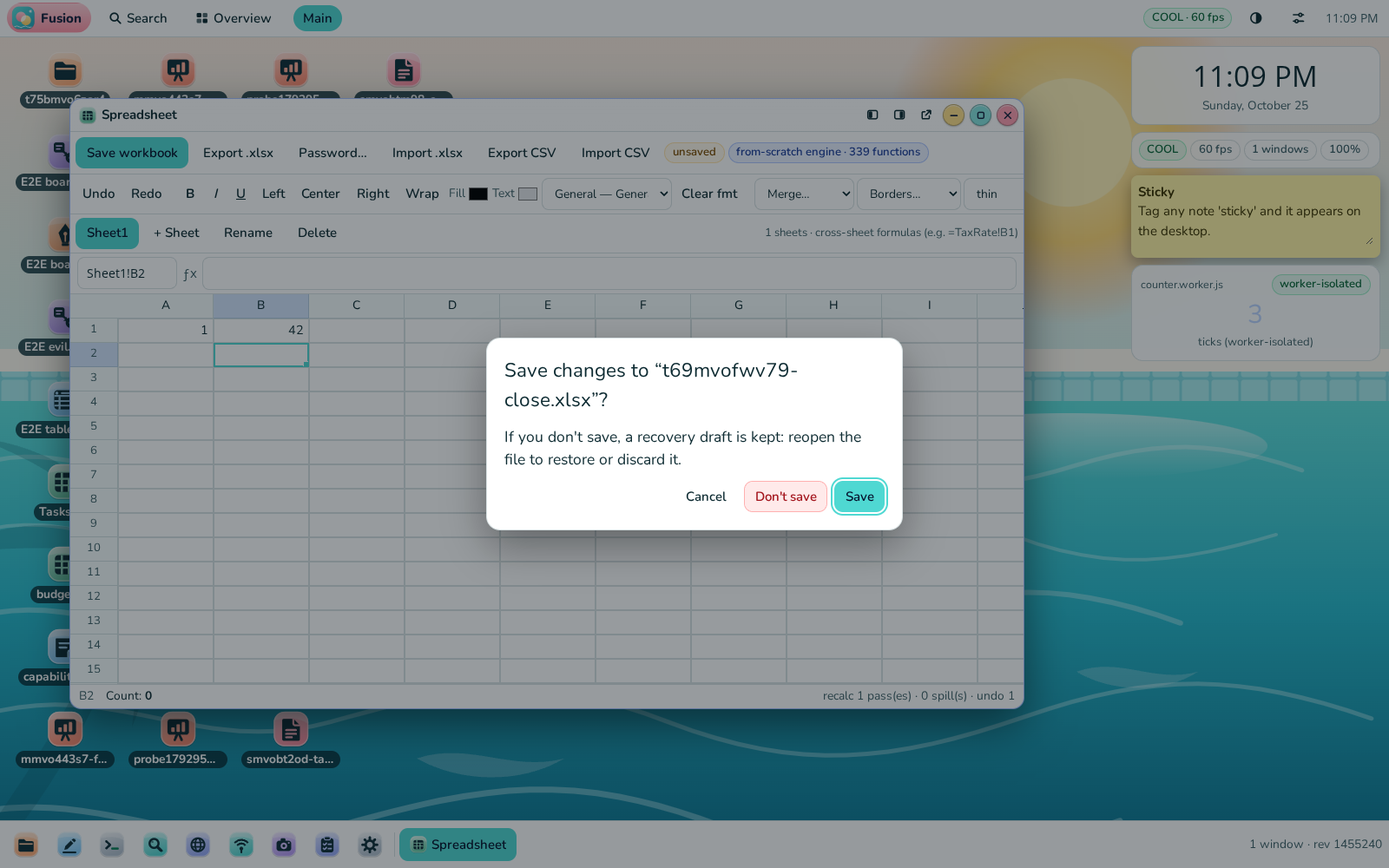
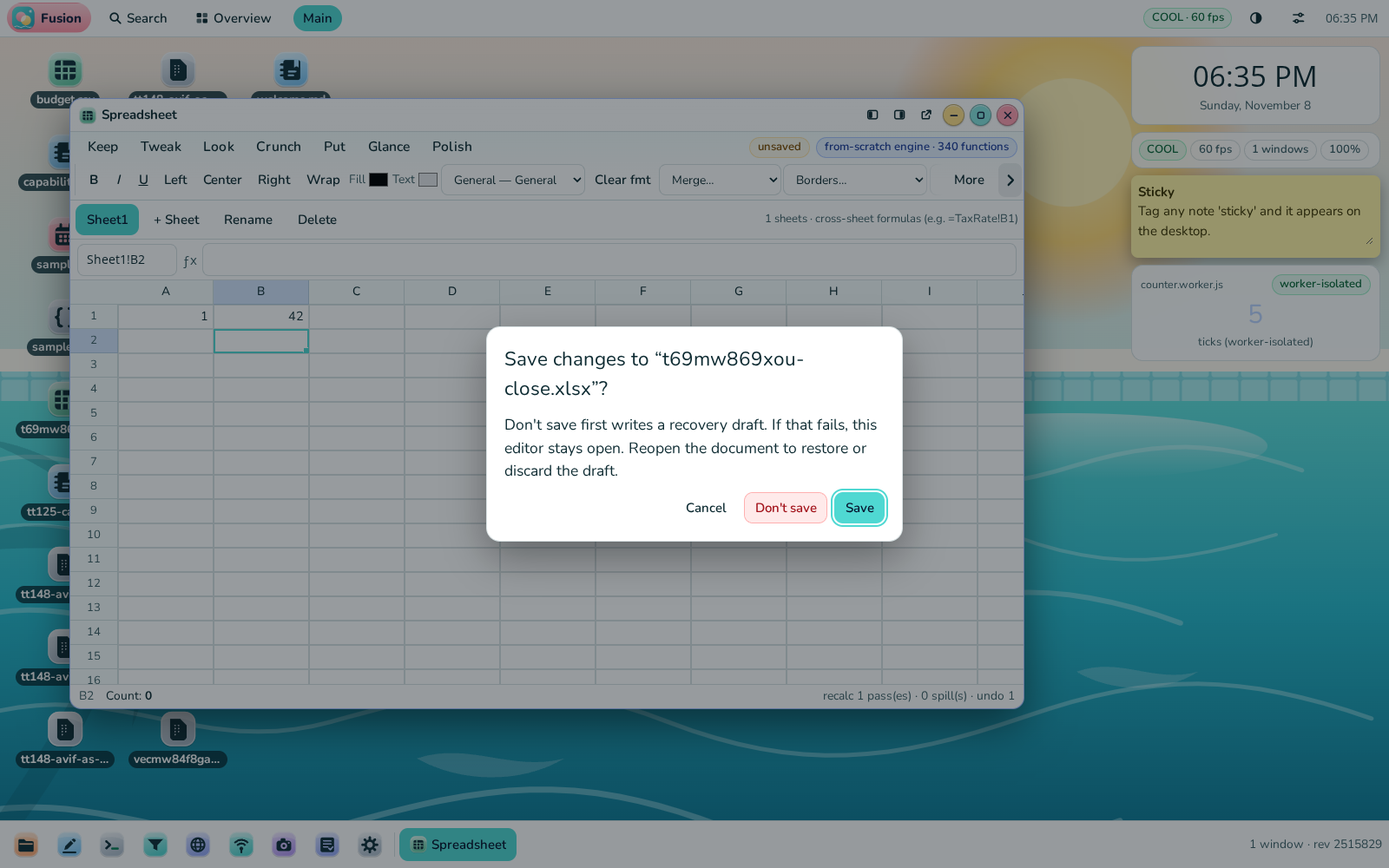
Wait for recovery layout and strengthen browser regressions

diff --git a/src/components/doc-lifecycle-ui.tsx b/src/components/doc-lifecycle-ui.tsx
@@ -102,28 +102,31 @@ export interface Offer { draft: DraftRecord; stale: boolean; at: string; draftFi
 
 /** look once per opened document: a draft of this path (or, untitled, the newest orphaned untitled draft) */
 export function useRecoveryOffer(kind: DocKind, path: string, ready: boolean) {
-  const [offer, setOffer] = useState<Offer | null>(null);
+  // Associate the result with the document it was read for; a late response
+  // must never show a different document's recovery offer.
+  const key = JSON.stringify([kind, path]);
+  const [result, setResult] = useState<{ key: string; offer: Offer | null } | null>(null);
+  const offer = result?.key === key ? result.offer : null;
   useEffect(() => {
-    if (!ready) return;
+    if (!ready) { setResult(null); return; }
     let live = true;
-    (async () => {
+    (async (): Promise<Offer | null> => {
       if (path) {
         const [d, sha] = await Promise.all([readDraft(kind, path), fileSha(path)]);
         const o = draftOffer(d, path, sha);
-        if (live && o.offer && d) setOffer({ draft: d, stale: o.stale, at: new Date(d.savedAt).toLocaleString(), draftFile: draftPathFor(kind, path) });
-      } else {
-        const list = await untitledDrafts(kind);
-        const top = list[0];
-        if (live && top) setOffer({ draft: top.draft, stale: false, at: new Date(top.draft.savedAt).toLocaleString(), draftFile: top.path });
+        return o.offer && d ? { draft: d, stale: o.stale, at: new Date(d.savedAt).toLocaleString(), draftFile: draftPathFor(kind, path) } : null;
       }
-    })().catch(() => undefined);
+      const top = (await untitledDrafts(kind))[0];
+      return top ? { draft: top.draft, stale: false, at: new Date(top.draft.savedAt).toLocaleString(), draftFile: top.path } : null;
+    })().catch(() => null).then((value) => { if (live) setResult({ key, offer: value }); });
     return () => { live = false; };
-  }, [kind, path, ready]);
-  const discard = useCallback(async () => { const o = offer; setOffer(null); if (o) await fsDraftIo.remove(o.draftFile); }, [offer]);
-  const take = useCallback(() => { const o = offer; setOffer(null); return o; }, [offer]);
+  }, [kind, path, ready, key]);
+  const setOffer = useCallback((value: Offer | null) => setResult({ key, offer: value }), [key]);
+  const discard = useCallback(async () => { const o = offer; setOffer(null); if (o) await fsDraftIo.remove(o.draftFile); }, [offer, setOffer]);
+  const take = useCallback(() => { const o = offer; setOffer(null); return o; }, [offer, setOffer]);
   /** put a taken offer back (the user cancelled a step of the restore, e.g. the password prompt of a sealed draft) */
-  const untake = useCallback((o: Offer) => setOffer(o), []);
-  return { offer, discard, take, untake };
+  const untake = useCallback((o: Offer) => setOffer(o), [setOffer]);
+  return { offer, discard, take, untake, checked: ready && result?.key === key };
 }
 
 export function RecoveryBanner({ offer, onRestore, onDiscard }: { offer: Offer | null; onRestore: () => void; onDiscard: () => void }) {

diff --git a/src/components/modules/Spreadsheet.tsx b/src/components/modules/Spreadsheet.tsx
@@ -1514,7 +1514,7 @@ export default function SpreadsheetModule({ win }: ModuleProps) {
           ))}
         </div>
       ) : null}
-      <div ref={gridRef} tabIndex={0} data-testid="sheet-grid" className="fs-scroll" style={{ flex: 1, minHeight: 0, outline: "none", position: "relative", userSelect: "none" }}
+      <div ref={gridRef} tabIndex={0} data-testid="sheet-grid" data-recovery-checked={recovery.checked ? "true" : "false"} className="fs-scroll" style={{ flex: 1, minHeight: 0, outline: "none", position: "relative", userSelect: "none" }}
         onKeyDown={gridKeys} onCopy={(e) => onCopy(e)} onCut={(e) => onCopy(e, true)} onPaste={onPaste}
         onScroll={(e) => { const t = (e.target as HTMLDivElement).scrollTop; if (Math.abs(t - scroll.top) > ROW_H) setScroll((s) => ({ ...s, top: t })); }}>
         <table style={{ borderCollapse: "separate", borderSpacing: 0, fontSize: fz(11.5), tableLayout: "fixed", width: totalW }}>

diff --git a/docs/LEDGER.md b/docs/LEDGER.md
@@ -1,7 +1,7 @@
 # Fusion Shell Web — build / test ledger (generated)
 
-Generated 2026-11-08T18:05:56.940Z by `scripts/ledger.mjs` from the live register (http://localhost:3999) and
-459 machine-readable suite result files in `docs/test-results/`. Nothing in the counts is hand-edited.
+Generated 2026-11-08T18:39:09.724Z by `scripts/ledger.mjs` from the live register (http://localhost:4000) and
+460 machine-readable suite result files in `docs/test-results/`. Nothing in the counts is hand-edited.
 These files span different runs and dates: this is a historical aggregate, **not** a claim that all suites were rerun today.
 Each suite file is overwritten on a full rerun, so this is the latest saved result per suite, not a history of every attempt.
 Register statuses and test tags are authored claims, not independent proof that the canonical specification is implemented.
@@ -19,7 +19,7 @@ See each suite timestamp and the latest turn report for current tests, known cla
 | **Fully tested** (≥1 passing `full` tag; incomplete rows capped) | **599** |
 | **Partially tested** (partial tags or an incomplete row with passing evidence) | **62** |
 | Untested | 13 |
-| Recorded test cases / passed (mixed run dates) | 4500 / 4485 |
+| Recorded test cases / passed (mixed run dates) | 4501 / 4488 |
 
 ## Build × test matrix
 
@@ -49,9 +49,9 @@ verifies the honesty contract, not the (impossible) capability.
 | e2e-image | 11 | 11 | 0 | 2026-10-31T05:14:55.173Z |
 | e2e-layout | 12 | 12 | 0 | 2026-10-29T19:51:15.019Z |
 | e2e-media27 | 7 | 7 | 0 | 2026-10-25T22:23:42.055Z |
-| e2e-office | 11 | 10 | 1 | 2026-11-08T17:42:33.419Z |
+| e2e-office | 11 | 11 | 0 | 2026-11-08T18:38:01.993Z |
 | e2e-privacy | 16 | 16 | 0 | 2026-10-31T05:40:42.112Z |
-| e2e-sheet-layout | 7 | 7 | 0 | 2026-11-08T17:43:22.619Z |
+| e2e-sheet-layout | 7 | 7 | 0 | 2026-11-08T18:29:52.454Z |
 | e2e-tables | 8 | 8 | 0 | 2026-10-26T13:12:19.850Z |
 | e2e-tabletop | 15 | 15 | 0 | 2026-10-27T21:16:03.541Z |
 | e2e-tt100-recall | 27 | 27 | 0 | 2026-10-29T19:41:23.175Z |
@@ -86,9 +86,9 @@ verifies the honesty contract, not the (impossible) capability.
 | e2e-tt123 | 3 | 3 | 0 | 2026-11-08T17:53:52.916Z |
 | e2e-tt124 | 4 | 3 | 1 | 2026-11-08T17:51:23.603Z |
 | e2e-tt125 | 3 | 2 | 1 | 2026-11-08T17:52:33.506Z |
-| e2e-tt126 | 4 | 4 | 0 | 2026-11-08T18:05:48.894Z |
+| e2e-tt126 | 4 | 4 | 0 | 2026-11-08T18:06:58.612Z |
 | e2e-tt127-photos | 1 | 1 | 0 | 2026-11-08T17:53:08.889Z |
-| e2e-tt127-vault | 3 | 3 | 0 | 2026-11-08T18:04:17.996Z |
+| e2e-tt127-vault | 3 | 3 | 0 | 2026-11-08T18:07:17.254Z |
 | e2e-tt128-editor | 4 | 4 | 0 | 2026-11-08T17:50:24.629Z |
 | e2e-tt128-photos | 11 | 11 | 0 | 2026-11-08T17:50:09.063Z |
 | e2e-tt128-time | 2 | 2 | 0 | 2026-11-08T17:50:17.581Z |
@@ -98,7 +98,7 @@ verifies the honesty contract, not the (impossible) capability.
 | e2e-tt130-alarms | 9 | 9 | 0 | 2026-11-08T17:48:47.883Z |
 | e2e-tt130-privacy | 1 | 1 | 0 | 2026-11-08T17:48:10.805Z |
 | e2e-tt131-image-viewport | 10 | 10 | 0 | 2026-11-08T17:48:07.412Z |
-| e2e-tt132-alarms | 13 | 12 | 1 | 2026-11-08T17:47:01.030Z |
+| e2e-tt132-alarms | 13 | 13 | 0 | 2026-11-08T18:39:05.941Z |
 | e2e-tt132-planner | 17 | 17 | 0 | 2026-11-08T17:48:00.225Z |
 | e2e-tt133-boundaries | 7 | 7 | 0 | 2026-11-08T17:40:01.919Z |
 | e2e-tt133-notes-find | 27 | 27 | 0 | 2026-11-08T17:39:37.950Z |
@@ -110,8 +110,9 @@ verifies the honesty contract, not the (impossible) capability.
 | e2e-tt146 | 5 | 5 | 0 | 2026-11-08T06:39:31.943Z |
 | e2e-tt147 | 6 | 6 | 0 | 2026-11-07T06:33:46.390Z |
 | e2e-tt148 | 4 | 4 | 0 | 2026-11-07T09:13:22.126Z |
-| e2e-tt151 | 2 | 2 | 0 | 2026-11-08T18:04:36.307Z |
+| e2e-tt151 | 2 | 2 | 0 | 2026-11-08T18:32:51.882Z |
 | e2e-tt152-boot | 1 | 1 | 0 | 2026-11-08T06:47:44.086Z |
+| e2e-tt154-recovery | 1 | 1 | 0 | 2026-11-08T18:37:17.185Z |
 | e2e-tt28 | 7 | 7 | 0 | 2026-10-25T22:24:18.083Z |
 | e2e-tt29 | 4 | 4 | 0 | 2026-10-26T12:12:00.498Z |
 | e2e-tt30 | 6 | 6 | 0 | 2026-10-25T22:26:37.267Z |
@@ -160,10 +161,10 @@ verifies the honesty contract, not the (impossible) capability.
 | e2e-tt66 | 3 | 3 | 0 | 2026-10-25T23:04:53.733Z |
 | e2e-tt67-input | 5 | 5 | 0 | 2026-10-27T21:17:46.574Z |
 | e2e-tt68-sheet | 3 | 3 | 0 | 2026-10-25T23:09:33.883Z |
-| e2e-tt69-lifecycle | 6 | 6 | 0 | 2026-10-25T23:10:09.579Z |
+| e2e-tt69-lifecycle | 6 | 6 | 0 | 2026-11-08T18:35:59.613Z |
 | e2e-tt70-closeall | 3 | 3 | 0 | 2026-10-25T23:11:22.407Z |
 | e2e-tt70-rows | 3 | 3 | 0 | 2026-10-25T23:15:35.730Z |
-| e2e-tt70-seal | 2 | 2 | 0 | 2026-10-25T23:11:08.812Z |
+| e2e-tt70-seal | 2 | 2 | 0 | 2026-11-08T18:36:33.387Z |
 | e2e-tt71-focus | 4 | 4 | 0 | 2026-10-25T23:15:45.675Z |
 | e2e-tt72-access | 4 | 4 | 0 | 2026-10-25T23:17:42.237Z |
 | e2e-tt72-pad | 5 | 5 | 0 | 2026-10-25T23:17:23.026Z |
@@ -274,7 +275,7 @@ verifies the honesty contract, not the (impossible) capability.
 | tt124-density | 23 | 20 | 3 | 2026-11-08T17:33:45.954Z |
 | tt125-core | 17 | 17 | 0 | 2026-11-08T17:35:33.671Z |
 | tt125-density | 3 | 3 | 0 | 2026-11-07T06:36:14.671Z |
-| tt126-regressions | 6 | 6 | 0 | 2026-11-08T17:35:44.064Z |
+| tt126-regressions | 6 | 6 | 0 | 2026-11-08T18:37:00.472Z |
 | tt127-conditional | 3 | 3 | 0 | 2026-11-08T17:52:45.870Z |
 | tt128-calendar-race | 1 | 1 | 0 | 2026-11-08T17:49:17.397Z |
 | tt128-core | 23 | 23 | 0 | 2026-11-08T17:35:34.975Z |
@@ -286,7 +287,7 @@ verifies the honesty contract, not the (impossible) capability.
 | tt129-worker-unit | 5 | 5 | 0 | 2026-11-08T17:35:34.569Z |
 | tt130-alarms-core | 4 | 4 | 0 | 2026-11-08T17:35:35.368Z |
 | tt130-privacy-boot | 1 | 1 | 0 | 2026-11-08T17:35:35.600Z |
-| tt131-ledger | 5 | 5 | 0 | 2026-11-08T17:48:00.637Z |
+| tt131-ledger | 5 | 5 | 0 | 2026-11-08T18:07:28.105Z |
 | tt132-claim-contract | 3 | 3 | 0 | 2026-11-06T21:20:20.748Z |
 | tt132-core | 12 | 12 | 0 | 2026-11-08T17:35:21.442Z |
 | tt132-lint-contract | 4 | 4 | 0 | 2026-11-08T17:35:21.825Z |
@@ -339,8 +340,8 @@ verifies the honesty contract, not the (impossible) capability.
 | tt147-core | 10 | 10 | 0 | 2026-11-08T17:35:39.897Z |
 | tt148-core | 7 | 7 | 0 | 2026-11-08T17:35:40.204Z |
 | tt149-calc | 6 | 6 | 0 | 2026-11-07T09:39:36.073Z |
-| tt151-qr | 6 | 6 | 0 | 2026-11-08T06:42:12.703Z |
-| tt151-time | 11 | 11 | 0 | 2026-11-08T17:32:30.277Z |
+| tt151-qr | 6 | 6 | 0 | 2026-11-08T18:28:19.209Z |
+| tt151-time | 11 | 11 | 0 | 2026-11-08T18:28:18.409Z |
 | tt28-unit | 5 | 5 | 0 | 2026-10-30T17:49:09.360Z |
 | tt29-unit | 4 | 4 | 0 | 2026-10-30T17:49:10.295Z |
 | tt30-unit | 7 | 7 | 0 | 2026-10-26T19:56:55.105Z |
@@ -410,7 +411,7 @@ verifies the honesty contract, not the (impossible) capability.
 | tt67-input | 11 | 11 | 0 | 2026-10-27T21:17:11.260Z |
 | tt67-sheet-ns | 13 | 13 | 0 | 2026-10-26T08:11:31.185Z |
 | tt68-blank | 8 | 8 | 0 | 2026-10-25T23:09:25.727Z |
-| tt69-lifecycle | 11 | 11 | 0 | 2026-10-29T19:40:25.551Z |
+| tt69-lifecycle | 11 | 11 | 0 | 2026-11-08T18:28:21.554Z |
 | tt69-sheet-misc | 5 | 5 | 0 | 2026-10-26T07:53:17.856Z |
 | tt70-edge | 5 | 5 | 0 | 2026-10-26T20:00:59.953Z |
 | tt70-range | 6 | 6 | 0 | 2026-10-26T20:00:59.791Z |
@@ -500,7 +501,7 @@ verifies the honesty contract, not the (impossible) capability.
 ## Rows touched by FAILING tests (not counted as tested)
 
 - AX-09: e2e-a11y: spreadsheet grid geometry scales with the text (row height = 22 × scale) and a header drag still moves the edge 1:1 on screen
-- FF-28: e2e-a11y: spreadsheet grid geometry scales with the text (row height = 22 × scale) and a header drag still moves the edge 1:1 on screen; e2e-office: column resize by dragging the header edge; frozen header row stays visible; rows are virtualised
+- FF-28: e2e-a11y: spreadsheet grid geometry scales with the text (row height = 22 × scale) and a header drag still moves the edge 1:1 on screen
 - AX-03: e2e-a11y: forced colours and prefers-contrast: more are honoured (buttons get system borders, muted text brightens)
 - AX-11: e2e-a11y: light + dark theme, all 13 styles: axe finds no serious violations in the chrome, Files and Spreadsheet
 - AX-08: e2e-a11y: light + dark theme, all 13 styles: axe finds no serious violations in the chrome, Files and Spreadsheet
@@ -518,8 +519,6 @@ verifies the honesty contract, not the (impossible) capability.
 - ED-09: e2e-tt125: ED-09/ED-10/WR-02: case rewrites only the selection; the now-button stamps the caret; reading time appears in Word Count
 - ED-10: e2e-tt125: ED-09/ED-10/WR-02: case rewrites only the selection; the now-button stamps the caret; reading time appears in Word Count
 - WR-02: e2e-tt125: ED-09/ED-10/WR-02: case rewrites only the selection; the now-button stamps the caret; reading time appears in Word Count
-- CK-01: e2e-tt132-alarms: a second Clock window's edit is not silently overwritten by a stale editor
-- PR-10: e2e-tt132-alarms: a second Clock window's edit is not silently overwritten by a stale editor
 - AX-21: tt119-density: AX-21: every app measured, none wordier than the ceiling, no emoji marks
 - AX-22: tt120-density: AX-22: every app measured, none wordier than the ceiling, no emoji marks
 - AX-24: tt124-density: density monitor: words<=520; tt124-density: density routines: words<=300
@@ -856,7 +855,7 @@ verifies the honesty contract, not the (impossible) capability.
 | PH-02 | built | full | e2e-tt118: PL-03/PH-02: agenda view and photo timeline render from real data; e2e: mount: photos; tt118-core: PH-02 photo timeline: local months, undated counted, largest month by bytes (+1) |
 | SV-01 | built | full | e2e-tt118: SV-01: a saved search persists and re-applies its query; e2e: mount: find; tt118-core: SV-01 saved searches: modes validated, duplicate names refused, sorted newest first |
 | AX-20 | built | full | e2e: mount: browser; tt118-density: AX-20: every app measured, none wordier than the ceiling, no emoji marks |
-| CK-01 | built | full | e2e-tt117: CK-01/02/03 in Clock: add an alarm, see next fire and the date calculator; e2e-tt130-alarms: control: an open Clock window fires the same alarm; e2e-tt130-alarms: an alarm still fires in the shell after its Clock window closes (+43) |
+| CK-01 | built | full | e2e-tt117: CK-01/02/03 in Clock: add an alarm, see next fire and the date calculator; e2e-tt130-alarms: control: an open Clock window fires the same alarm; e2e-tt130-alarms: an alarm still fires in the shell after its Clock window closes (+44) |
 | CK-02 | built | full | e2e: mount: clock; tt117-core: CK-02 lap splits: deltas, fastest/slowest, monotonic refusal |
 | CK-03 | built | full | e2e-tt117: CK-01/02/03 in Clock: add an alarm, see next fire and the date calculator; e2e-tt128-time: Clock: local date controls and explicit overlap/gap choices; e2e: mount: clock (+3) |
 | NT-01 | built | full | e2e-tt117: NT-01 in Notes: statistics follow the text being edited; e2e: mount: notes; tt117-core: NT-01 note stats: code excluded, outline, links, reading time |
@@ -1028,7 +1027,7 @@ verifies the honesty contract, not the (impossible) capability.
 | PR-07s | built | full | tt140-cast-privacy: PR-07s · media in another document is never offered as castable; tt140-cast-privacy: PR-07s · each blocker produces its own honest reason; tt140-cast-privacy: PR-07s · the per-tab summary counts and explains |
 | PR-08 | built | full | e2e-tt52-pdf: corpus files open: one thumbnail per page (= PDFium page count), page canvases carry ink — tracemonkey.pdf (14 pages), alphatrans.pdf, 160F-2019.pdf (forms); e2e-tt52-pdf: annotate + page ops + title → Ctrl+S → PDFium/pypdf see exactly those edits; original bytes are an exact prefix (incremental update); e2e-tt52-pdf: forms: Tx + checkbox + choice filled in the Forms panel → pypdf reads the values (+98) |
 | PR-09 | built | full | e2e-tt96-calculator: programmer controls compute exact 64-bit and signed fixed-width expressions in the real UI; e2e-tt96-calculator: history is session-only by default, then explicit local opt-in survives reload, filters, restores mode and deletes; e2e-tt96-calculator: quota denial is visible and never reported as a confirmed saved history entry (+77) |
-| PR-10 | built | full | e2e-tt130-alarms: control: an open Clock window fires the same alarm; e2e-tt130-alarms: an alarm still fires in the shell after its Clock window closes; e2e-tt132-alarms: actionable ring survives Clock close and toast expiry; dismiss leaves the schedule enabled (+21) |
+| PR-10 | built | full | e2e-tt130-alarms: control: an open Clock window fires the same alarm; e2e-tt130-alarms: an alarm still fires in the shell after its Clock window closes; e2e-tt132-alarms: actionable ring survives Clock close and toast expiry; dismiss leaves the schedule enabled (+22) |
 | PR-11 | built | partial | e2e-tt46: welcome document renders as a paged Word document (title style, bullet markers, bordered table, page box); e2e-tt46: typing with the real keyboard: text, Enter, Shift+Arrow selection + Ctrl+B, Ctrl+Z undo, Backspace join; e2e-tt46: Save as .docx from the UI → python-docx reads the typed text, Heading 1 style, bold run and bullet list (+44) |
 | PR-12 | built | full | e2e-tt57-rows: PR-12 clipboard history: Fusion copies land in the system clipboard (read back independently) and the history; same text twice = one entry moved to top; pin survives Clear; search filters; e2e: mount: clipboard; tt57-units: PR-12 hand cases: dedupe moves to top keeping the pin; sensitive never deduped/pinned; cap spares pinned; clear keeps pinned; search text+source (+1) |
 | PR-13 | built | full | e2e: desktop shows sticky note widget; seeded widget has no hang button; tt139-engines: DIFF-01 · Myers distance equals an independent longest-common-subsequence count; tt139-engines: DIFF-02 · the budget reports truncation instead of pretending everything changed (+3) |
@@ -1078,7 +1077,7 @@ verifies the honesty contract, not the (impossible) capability.
 | BK-06 | built | full | e2e-tt87-backup: BK-03 UI builds a settings-only snapshot, verifies it and downloads both plaintext and authenticated encrypted files; e2e-tt87-backup: BK-03 wrong passphrase, ciphertext mutation and plain checksum tampering are refused before any restore request; e2e-tt87-backup: BK-03 encrypted UI restore previews, can cancel, applies settings live in two tabs and never posts the passphrase (+19) |
 | FF-26 | built | full | e2e-office: sample renders through numfmt + spill: currency, SUM, SORTBY spill outline/tooltip, % format on another sheet; e2e: mount: sheet; office: SEQUENCE(2,3) spills all six cells with correct values (+13) |
 | FF-27 | built | full | e2e: mount: sheet; office: FILTER with a broadcast boolean condition, SORT, UNIQUE, XLOOKUP; office: first-party verified semantics survive: SUM(1,"x",2) is still #VALUE! (+7) |
-| FF-28 | built | full | e2e-office: sample renders through numfmt + spill: currency, SUM, SORTBY spill outline/tooltip, % format on another sheet; e2e-office: autocomplete (Tab inserts NAME( ), point-mode click inserts a reference, Enter commits and recalculates; e2e-office: drag-select a range → status bar Sum/Count; Ctrl+A selects current region (+35) |
+| FF-28 | built | full | e2e-office: sample renders through numfmt + spill: currency, SUM, SORTBY spill outline/tooltip, % format on another sheet; e2e-office: autocomplete (Tab inserts NAME( ), point-mode click inserts a reference, Enter commits and recalculates; e2e-office: drag-select a range → status bar Sum/Count; Ctrl+A selects current region (+36) |
 | FF-29 | built | full | e2e-office: charts panel renders SVG chart images (bar → pie) from a dynamic-array source; e2e-tt49: imported x14 data bars (automatic bounds + border), x14-only 3Stars and a custom icon mix are drawn cell-for-cell as evaluated; e2e-tt49: CF borders, formula rules and time periods from a workbook our writer produced are drawn as evaluated (+48) |
 | FF-30 | built | full | e2e-image: ORACLE: our compositor vs Chromium/Skia globalCompositeOperation — the 16 canvas blend modes (incl. hue/saturation/color/luminosity), opaque and translucent backdrops; e2e-image: new doc renders; brush drag paints a continuous line in the foreground colour; undo/redo; e2e-image: layers: new layer, paint, blend=multiply changes composite, opacity, visibility toggle, reorder, merge (+28) |
 | FF-31 | built | full | e2e-image: Save PSD → VFS file decodes with our reader (layers/blend/mask) → deep-link reopen restores layers and pixels; e2e: mount: imageedit; image: TT78 PSD: groups / clipping / non-separable keys round-trip; clip to a group is reported and drawn unclipped (+12) |

diff --git a/docs/DESIGN-TT154.md b/docs/DESIGN-TT154.md
@@ -1,0 +1,38 @@
+# TT154 — recovery-layout and regression review
+
+## Model and threshold
+
+The object under test is this PWA, its real HTTP server and an explicitly disposable PostgreSQL desktop. Browser tests use Chromium 143 with real DOM input; network routing is used only to hold one real request in the adversarial test. No independent agent or theorem prover was used. Node/TypeScript, Playwright, PostgreSQL, external Python document decoders and zxing-cpp were available. A finite browser run cannot establish universal correctness or an A grade.
+
+For the targeted drag, success for each exercised desktop and saved-draft state means: after the asynchronous recovery lookup has settled and rendered its result, a native 60 CSS-pixel drag of the actual header handle changes the cell width by 60 ± 2 CSS pixels; the lookup must not delete a draft. A recovery-ready signal cannot assert completion while its lookup remains blocked. Stale lookups must not publish offers for a different document. The tests cover selected states and timings, not all interleavings, browsers or failures. Separately, a stale alarm edit must preserve the newer state and retain the unsaved form, with an explicit warning. A successful gate requires all its suites to finish with zero failures, not merely a selected test passing.
+
+H+: these bounded failures are repairable without dropping recovery, encryption or responsive controls. H−: complete native-OS equivalence is not demonstrated by a browser PWA and cannot be inferred from these tests. H∂: behavior depends on draft state, asynchronous arrival, viewport and browser; broader coverage requires more conditions and evidence. Threshold for these local changes: reproduced failing real-browser case, deterministic adversarial delay and mutation, TypeScript/build, affected real lifecycle and layout suites, and honest retained failures. This is not a threshold for merging the whole PR.
+
+## Observations and mechanism
+
+A capture-phase event trace on the production build showed `mousedown` landing on “Unsaved changes found” rather than the header handle: the recovery banner arrived between the test's hit-target check and mouse input. This explains the reproduced 138 → 138 resize result in that run, not necessarily every failure with that shape. The old test checked hit target before mouse movement, which cannot prove that a later event still hits it. The new regression holds the actual recovery listing request, asserts readiness remains false and no banner is shown, releases it, verifies that the signal and real banner appear together, and verifies the draft's contents remain unchanged. Changing the signal to `ready` alone made this test fail (`true !== false`); restoring the repair passes. The signal means the lookup attempt completed, not that storage errors can never occur. Existing storage error handling is unchanged.
+
+The recovery result is keyed by document kind/path and published atomically with its completion state; an effect cleanup ignores a late response. The spreadsheet exposes that state to tests. Office and accessibility drag tests wait for it rather than discarding drafts, force-clicking or changing resize tolerances. Editor and Writer keep their recovery behavior. The clock implementation already reported “Changed elsewhere — reopen the editor.”; the old test waited for different wording. The test now checks the actual explicit warning, the retained unsaved edit and the newer persisted alarm.
+
+The older recovery suites also had stale dialog wording and assumed hidden responsive toolbar buttons had visible inner text. They now assert the current warning and use the real More menu when necessary; file bytes, encrypted drafts, cancellation and restore checks remain in place. No production save or recovery feature was removed.
+
+## Portfolio and counterexamples
+
+Six distinct candidate mechanisms considered, with the cheapest distinguishing test and unresolved interface:
+
+1. **Pointer capture**: ensures subsequent pointer events target the captor after a successful down; MDN documents this at https://developer.mozilla.org/en-US/docs/Web/API/Element/setPointerCapture. Artifact: event trace proves the down landed on the banner, so capture cannot solve this initial hit. Attack: delay the banner until before down. Gap: separately evaluate touch/cancel handling.
+2. **Stable test coordinates**: wait for completed lookup and then measure the actual handle. Artifact: readiness attribute plus delayed-response test. Attack: make readiness true early (mutation failed). Gap: later unrelated layout shifts remain possible.
+3. **Delete all drafts in setup**: could remove the shift but destroys evidence and is unsafe for real data. Counterexample: the delayed test asserts draft bytes survive. Rejected.
+4. **Force click or enlarge tolerance**: can report success without a genuine interaction. Counterexample: trace shows the hit went to the banner; original ±2 px drag assertion is retained. Rejected.
+5. **Freeze desktop overflow or stack shelf behind windows**: could hide interception but conflicts with the shell's title-bar and shelf behavior. MDN notes `overflow: clip` does not support programmatic scrolling: https://developer.mozilla.org/en-US/docs/Web/CSS/overflow. Gap: reconcile off-screen window recovery, resizing and responsive layouts with real-browser tests; not implemented.
+6. **Fit saved windows to available desk**: could make controls reachable, but indiscriminate clamping changes deliberate partial-offscreen window behavior and restore geometry. Artifact: current reducer enforces reachable title bars, not whole-window containment. Attack: small viewport, text scaling, deliberate drag, maximize/restore and viewport growth. Gap is global geometry compatibility; not implemented.
+
+Fifteen misleading result shapes, none sufficient for the full contract: a compiled build; a single passing case; a passing mutation-free test; a stubbed network; a synthetic DOM click; an initial hit-test alone; an increased timeout; a larger numeric tolerance; a discarded recovery draft; a relaxed density ceiling; a hidden control clicked by script; a mock scheduler presented as native; an aggregate ledger count; a prior build's test result; and a gate stopped before completion. The modal shortcut here is the initial hit-test: it passed, then asynchronous layout change moved the target. The held-listing test detects premature readiness, and the full office test still uses native input and measures displacement.
+
+## Verification and remaining gap
+
+The rebuilt production server passed delayed recovery 1/1, office 11/11, spreadsheet layout 7/7, Clock 13/13, lifecycle 6/6, sealed recovery 2/2, and TT151 2/2; targeted accessibility resize passed 1/1. Python document decoders independently checked saved and sealed document bytes. The full accessibility suite and full production gate were not rerun to completion. Gate now includes TT151 QR/time, TT151 UI, the new recovery attack, and the two recovery suites; these make it more powerful but are not a measured wall-time speedup. The QR and time pure suites passed 6/6 and 11/11 in two parallel workers. A TT69 server/database suite was accidentally run alongside early production checks; the later focused office and Clock reruns were exclusive. Earlier density and shelf failures remain open; no limits were raised. A previous run also recorded two unrelated accessibility timeouts; a targeted drag pass does not establish they are resolved.
+
+The screenshot `docs/screens/tt69-close-confirm-dark.png` was inspected: the Spreadsheet and recovery confirmation are legible at that tested desktop size. This is not a visual review of every app, viewport, theme or interaction. No new Class-A promotions are claimed. The next high-information test is a dedicated real-browser window geometry matrix that reproduces shelf interception under resize, restored oversize geometry, maximize/restore and keyboard focus, before changing window invariants.
+
+The refreshed generated ledger reports 674 registered features, with built 649 full / 5 partial / 20 blocked and tested 599 full / 62 partial / 13 untested. It joins 4488/4501 saved test results and 23 failing-touch rows; these historical aggregate counts are not a current complete-gate result. Rebuilt production ledger checks passed 5/5.
